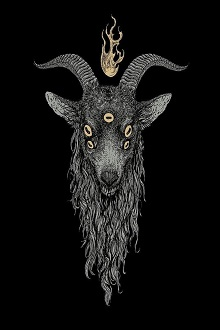
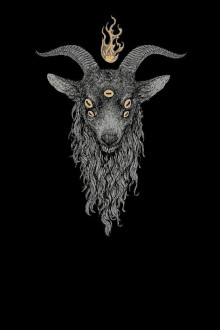
modifiche immagini
modifiche immagini bucca

Changed region(s): [[0.1364, 0.0303, 0.8455, 0.9394]]

diff --git a/styles.css b/styles.css
@@ -524,7 +524,7 @@ width: 100px; height: 80px; display: flex; align-items: center; font-size: 10px;
 }
 
 .phone {
-    width: 220px; height: 330px; border-radius: 10px; overflow: hidden; background-image: url(https://i.imgur.com/X7XioqL.jpg);
+    width: 220px; height: 330px; border-radius: 10px; overflow: hidden; background: url(https://i.imgur.com/x489PaP.jpg);
 }
 
 .overlay { position: relative; bottom: 0; left: 0; right: 0; overflow: hidden; width:220px; height:330px; transition: .99s ease;}
